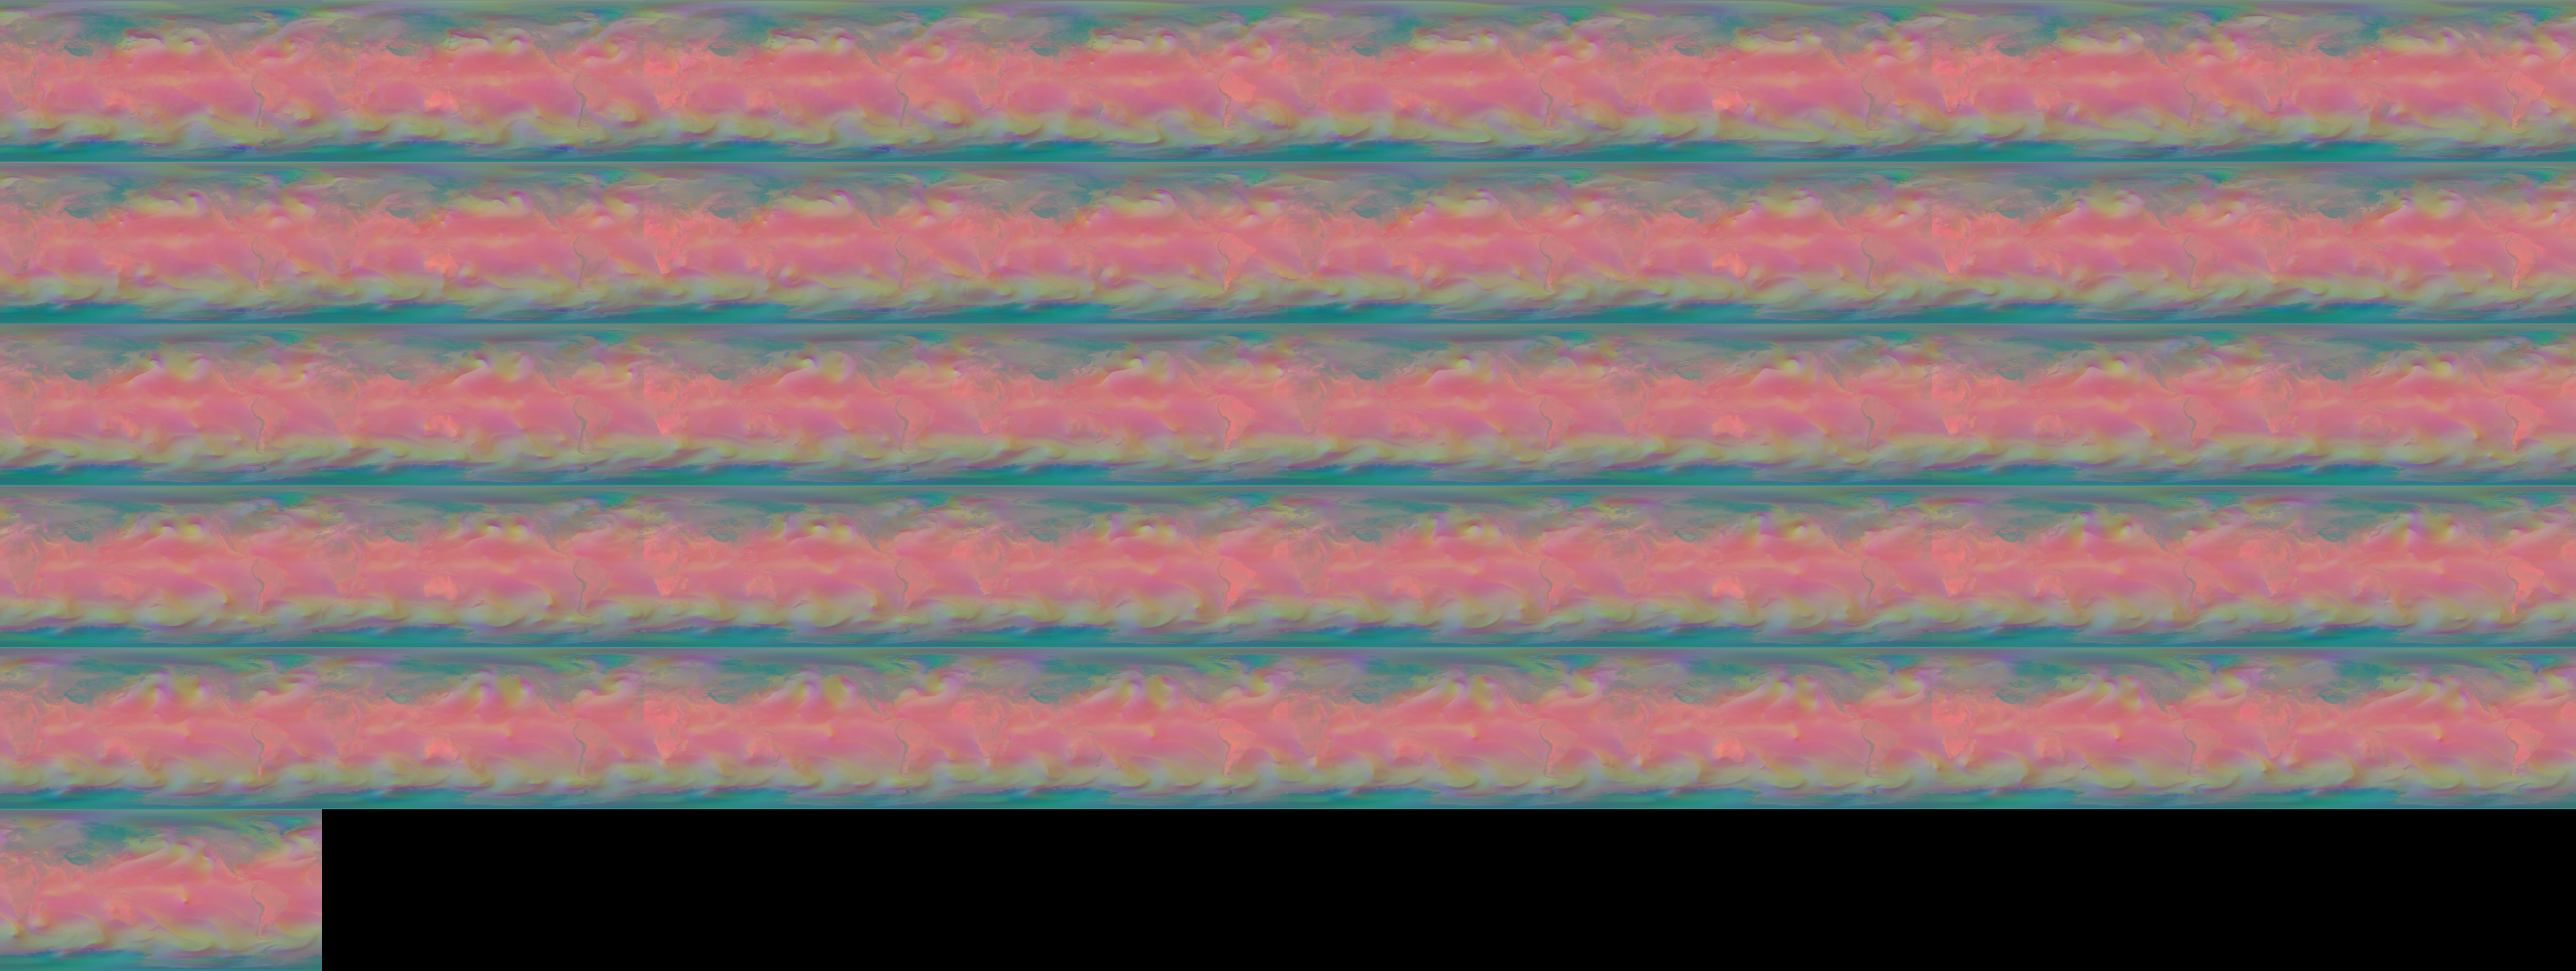
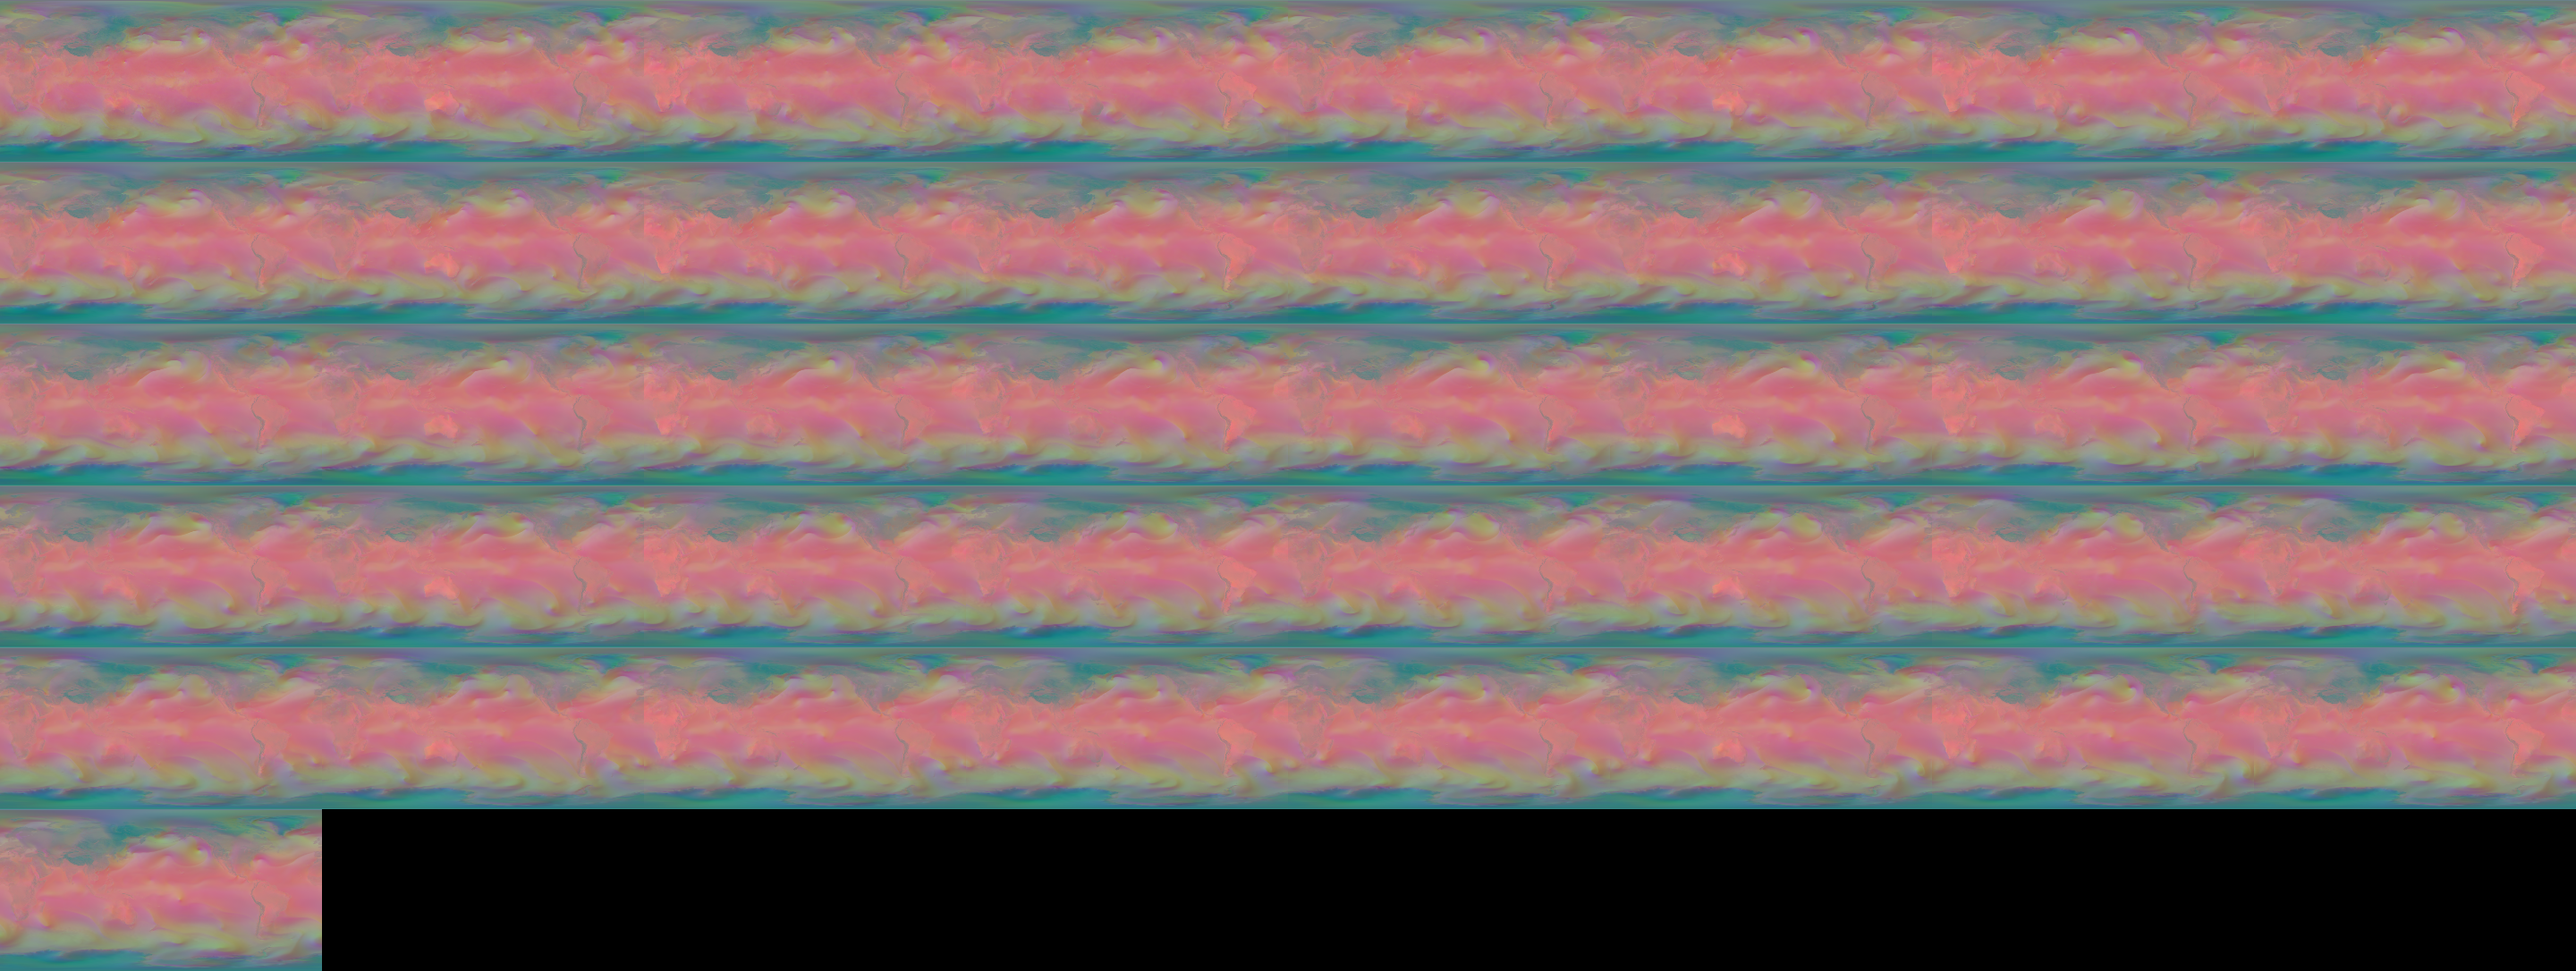
FIAB Globe: AIFS Single 8 Nov 2026 00 UTC
Claude-Session: https://claude.ai/code/session_01Mm7KmM24xqhNk2YDRzXdRt

diff --git a/FIAB/Globe/index.html b/FIAB/Globe/index.html
@@ -97,7 +97,7 @@ body.bare #time{left:auto;right:16px;max-width:none;width:auto}
   <div id="ends"><span id="t0"></span><span>hourly frames interpolated from 6-hourly model output</span><span id="t1"></span></div>
 </div>
 
-<script type="module" src="globe.js?v=202611070632"></script>
+<script type="module" src="globe.js?v=202611080631"></script>
 <script src="../brand.js?v=202611060913" data-pos="tc" defer></script>
 </body>
 </html>
